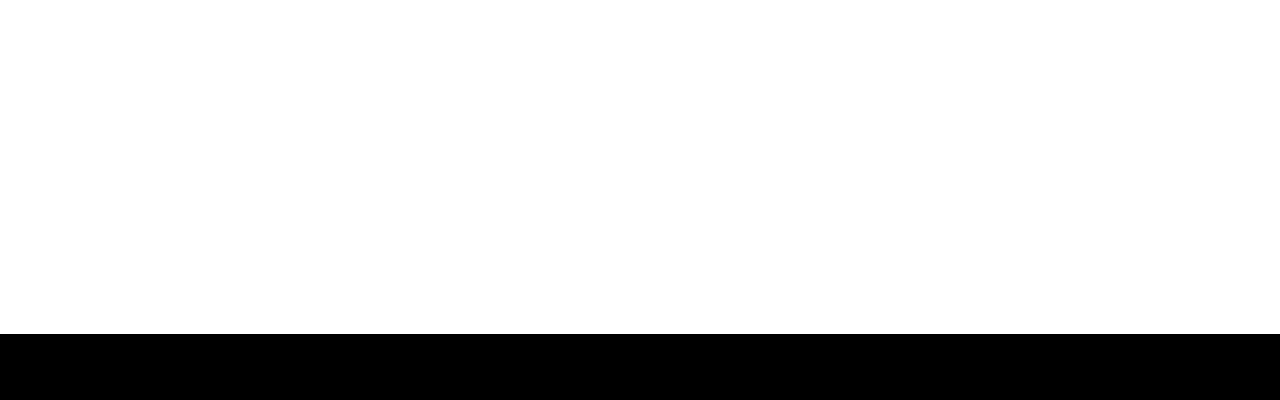
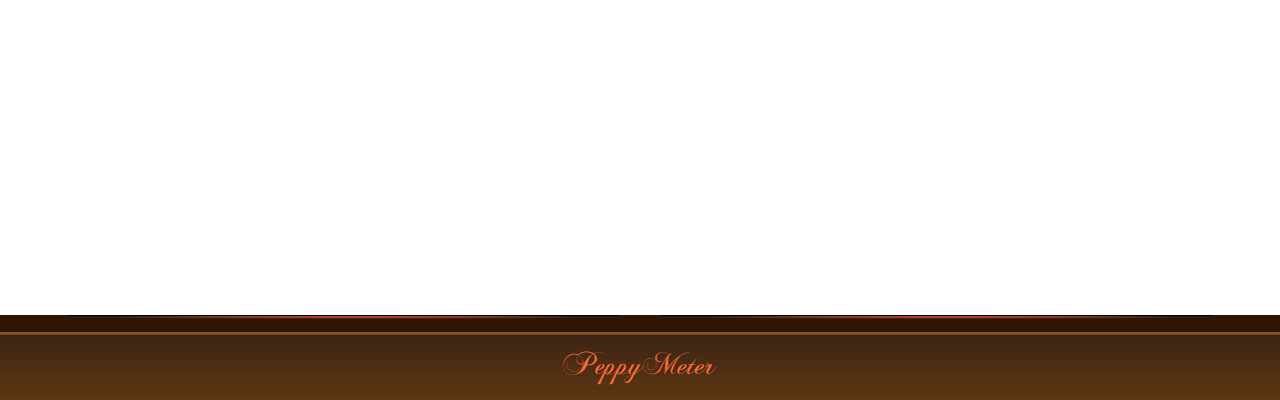
swap physical red/orange 1280 asset files to match true color naming

Changed region(s): [[0.0, 0.78, 1.0, 1.0]]

diff --git a/peppy.html b/peppy.html
@@ -478,7 +478,7 @@
         } catch { return 0.6; }
       }
 
-      const ASSET_VER = 'swap-4';
+      const ASSET_VER = 'swap-5';
       function withAssetVer(u){
         const s = String(u || '');
         if (!s) return '';
